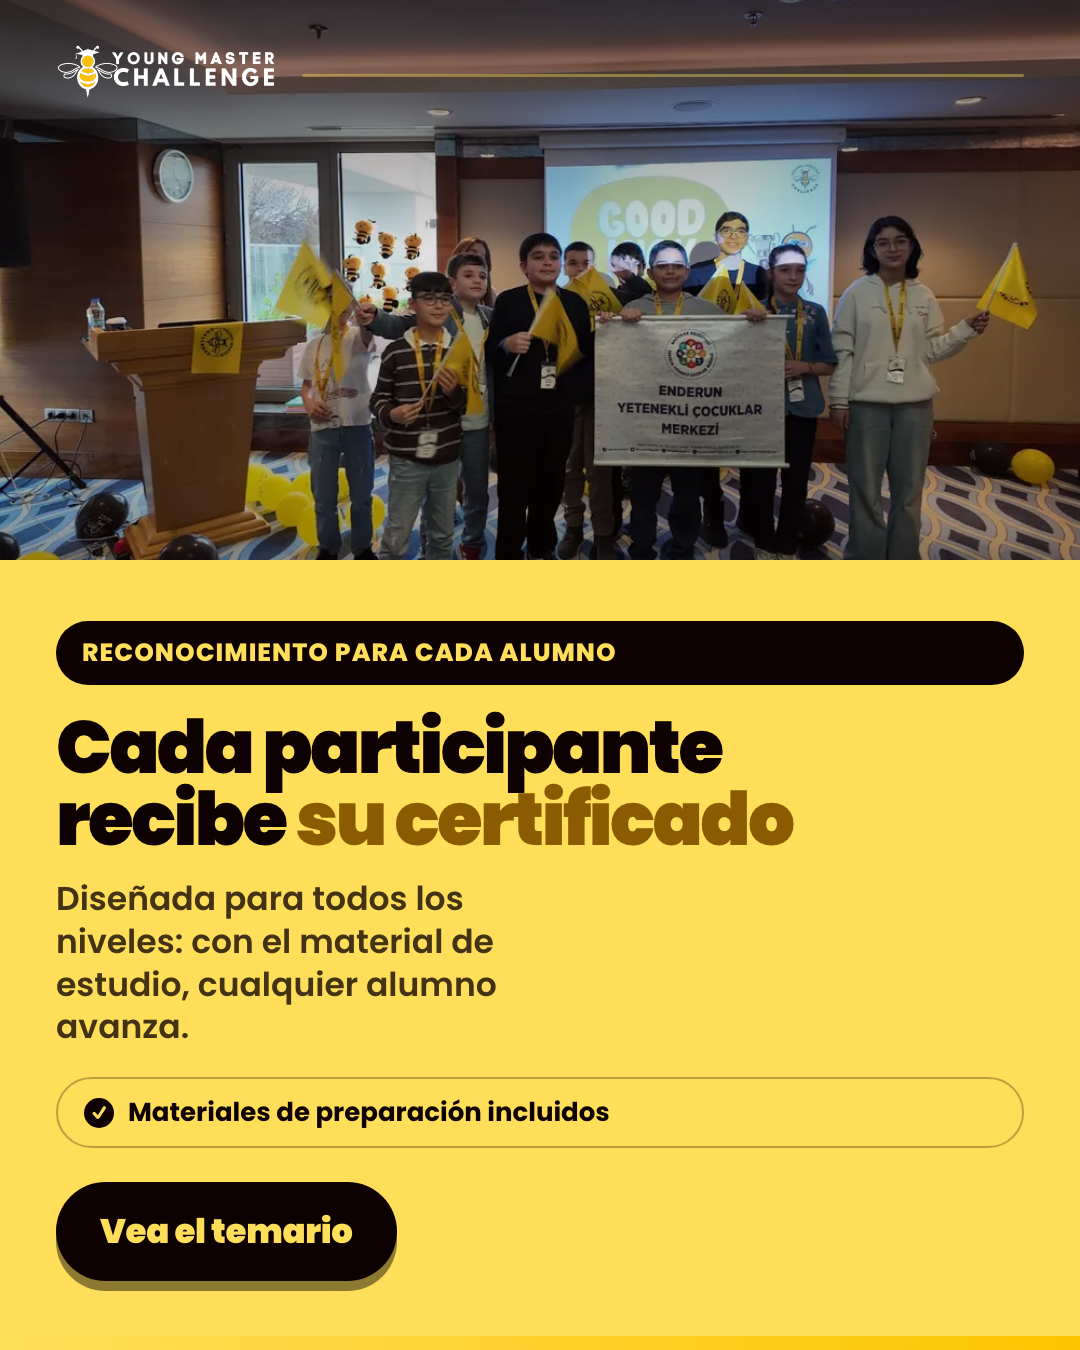
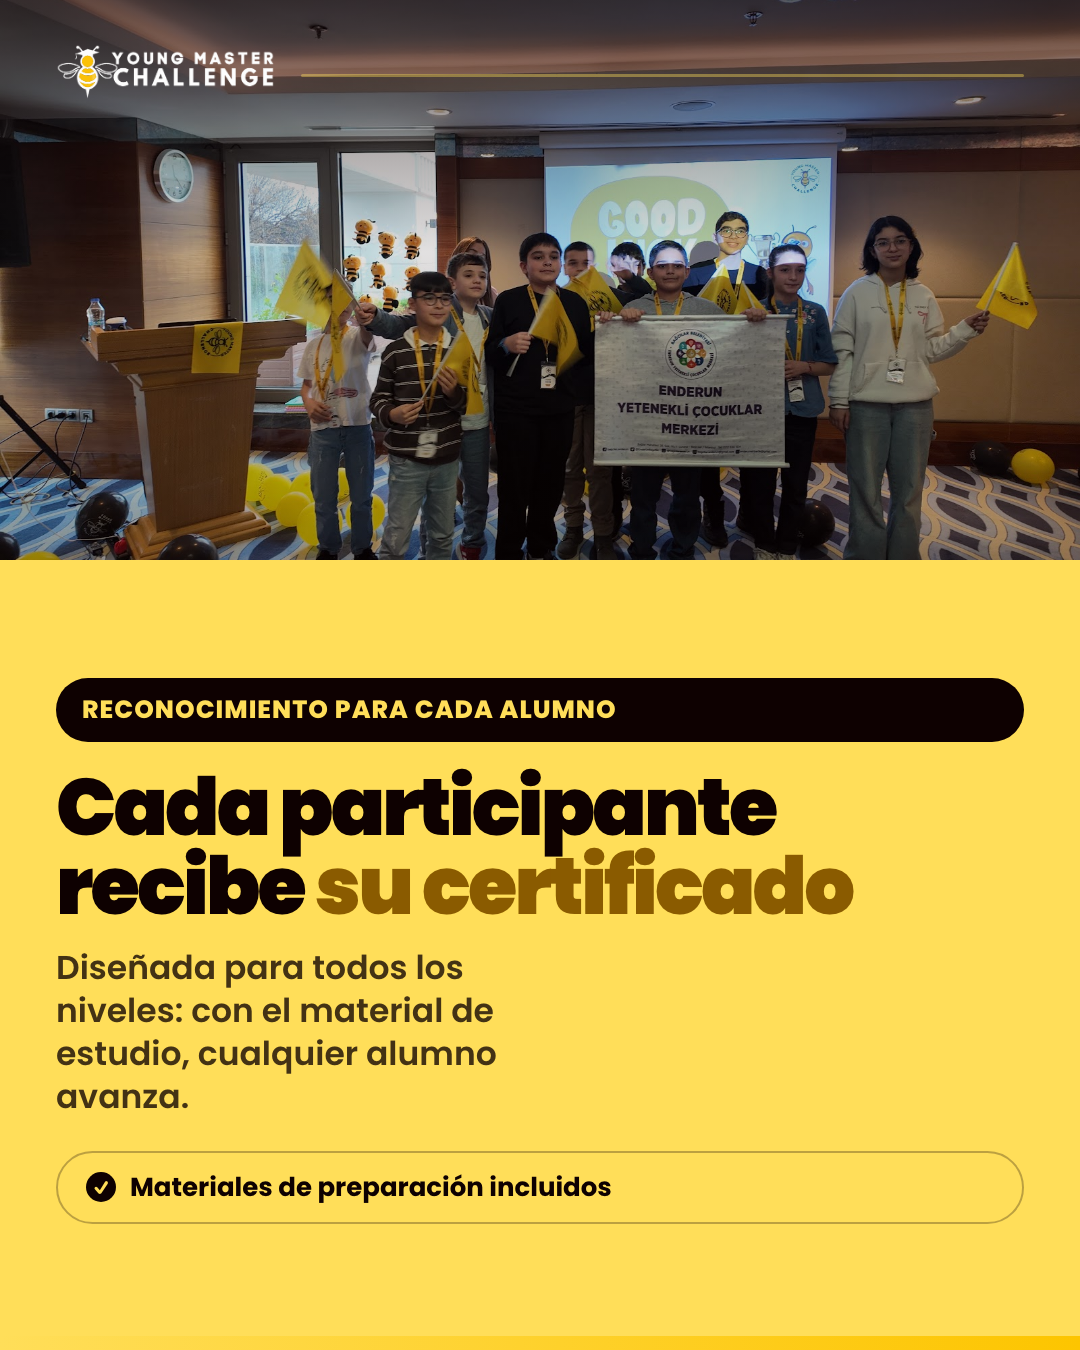
Drop the in-image CTA button and compress the site images
Meta draws its own call-to-action button directly under the creative, so a
second button painted into the image read as a mistake. Removing it also gave
the headline room to grow.

Ad photos now come from ads/photos at full resolution, kept separate from the
site images. The site images are compressed hard for load speed (951KB -> 630KB
across fourteen files), which is the right trade for a landing page and the
wrong one for a 1080px creative.

Also removed a claim that the prize excludes flights and visa. It survived in
the Portuguese copy after being cut from the Spanish; we do not know what the
package covers, so we say nothing.

Changed region(s): [[0.0306, 0.4356, 0.9472, 0.9644], [0.0611, 0.0311, 0.2444, 0.0622], [0.9167, 0.84, 0.9472, 0.8711]]

diff --git a/ads/template.html b/ads/template.html
@@ -73,7 +73,7 @@ h1 em { font-style: normal; color: var(--yellow); }
 .proof {
   display: inline-flex; align-items: center; gap: 14px;
   font-size: 26px; font-weight: 700;
-  margin-top: 28px; padding: 14px 26px;
+  margin-top: 32px; padding: 15px 28px;
   border: 2px solid rgba(255,222,89,.55); border-radius: 999px;
 }
 .proof .tick {
@@ -81,14 +81,9 @@ h1 em { font-style: normal; color: var(--yellow); }
   background: var(--yellow); color: var(--ink);
   display: grid; place-items: center; font-size: 18px; font-weight: 900;
 }
-.cta {
-  display: inline-block;
-  background: var(--yellow); color: var(--ink);
-  font-size: 34px; font-weight: 900; letter-spacing: -.01em;
-  padding: 24px 44px; border-radius: 999px;
-  margin-top: 34px;
-  box-shadow: 0 10px 0 var(--yellow-deep);
-}
+/* No in-image CTA button: Meta renders its own call-to-action button directly
+   under the creative, and two stacked buttons read as a mistake. The proof chip
+   now carries the bottom of the composition. */
 
 /* =========================================================
    VARIANT A — photo with a heavy bottom gradient, text low
@@ -102,7 +97,7 @@ h1 em { font-style: normal; color: var(--yellow); }
 .v-a .body {
   position: absolute; left: 56px; right: 56px; bottom: 86px; z-index: 4;
 }
-.v-a h1 { font-size: 88px; }
+.v-a h1 { font-size: 94px; }
 
 /* =========================================================
    VARIANT B — photo on top, solid yellow panel beneath
@@ -120,12 +115,11 @@ h1 em { font-style: normal; color: var(--yellow); }
   display: flex; flex-direction: column; justify-content: center;
 }
 .v-b .badge { background: var(--ink); color: var(--yellow); }
-.v-b h1 { font-size: 74px; color: var(--ink); }
+.v-b h1 { font-size: 80px; color: var(--ink); }
 .v-b h1 em { color: #8a5b00; }
 .v-b .sub { color: rgba(14,1,1,.78); max-width: 24ch; font-weight: 600; }
 .v-b .proof { border-color: rgba(14,1,1,.28); color: var(--ink); }
 .v-b .proof .tick { background: var(--ink); color: var(--yellow); }
-.v-b .cta { background: var(--ink); color: var(--yellow); box-shadow: 0 10px 0 rgba(0,0,0,.45); }
 
 /* =========================================================
    VARIANT C — dark editorial, framed photo, type-led
@@ -140,7 +134,7 @@ h1 em { font-style: normal; color: var(--yellow); }
 .v-c .body {
   position: absolute; left: 56px; right: 56px; bottom: 84px; z-index: 4;
 }
-.v-c h1 { font-size: 78px; }
+.v-c h1 { font-size: 84px; }
 .v-c .sub { max-width: 22ch; color: rgba(255,255,255,.82); }
 </style>
 

diff --git a/ads/build.py b/ads/build.py
@@ -26,21 +26,15 @@ REPO = os.path.dirname(ROOT)
 OUT = os.path.join(ROOT, "creatives")
 CHROME = "/Applications/Google Chrome.app/Contents/MacOS/Google Chrome"
 
-PHOTOS = {
-    "group": "hero-group.webp",
-    "mascot": "mascot-group.webp",
-    "auditorium": "auditorium.webp",
-    "winners": "winners.webp",
-    "exam": "exam-desk.webp",
-    "london": "london-final.webp",
-    "certificates": "certificates.webp",
-    "corridor": "corridor.webp",
-}
+# Ad photos are kept separately from the site images at full resolution: the site
+# images are compressed hard for load speed, which is wrong for a 1080px creative.
+PHOTOS = {k: k + ".jpg" for k in
+          ("group", "mascot", "auditorium", "winners", "exam", "london", "certificates", "corridor")}
 
 
 def data_uri(path):
     ext = path.rsplit(".", 1)[1].lower()
-    mime = {"webp": "image/webp", "png": "image/png"}[ext]
+    mime = {"webp": "image/webp", "png": "image/png", "jpg": "image/jpeg"}[ext]
     with open(path, "rb") as fh:
         return "data:%s;base64,%s" % (mime, base64.b64encode(fh.read()).decode())
 
@@ -59,7 +53,6 @@ def body_block(c):
       <h1>{esc(c['headline'])}</h1>
       <p class="sub">{esc(c['subhead'])}</p>
       <div class="proof"><span class="tick">✓</span>{esc(c['proof'])}</div>
-      <div><span class="cta">{esc(c['cta'])}</span></div>
     """
 
 
@@ -110,7 +103,7 @@ def main():
     made = []
     for c in creatives:
         photo_file = PHOTOS.get(c.get("photo", "group"), PHOTOS["group"])
-        photo = data_uri(os.path.join(REPO, "assets", "img", photo_file))
+        photo = data_uri(os.path.join(ROOT, "photos", photo_file))
         page, n = re.subn(r'<div class="card" id="card">.*?</div>',
                           lambda _m: card_html(c, photo, logo), template, count=1, flags=re.S)
         if n != 1:
